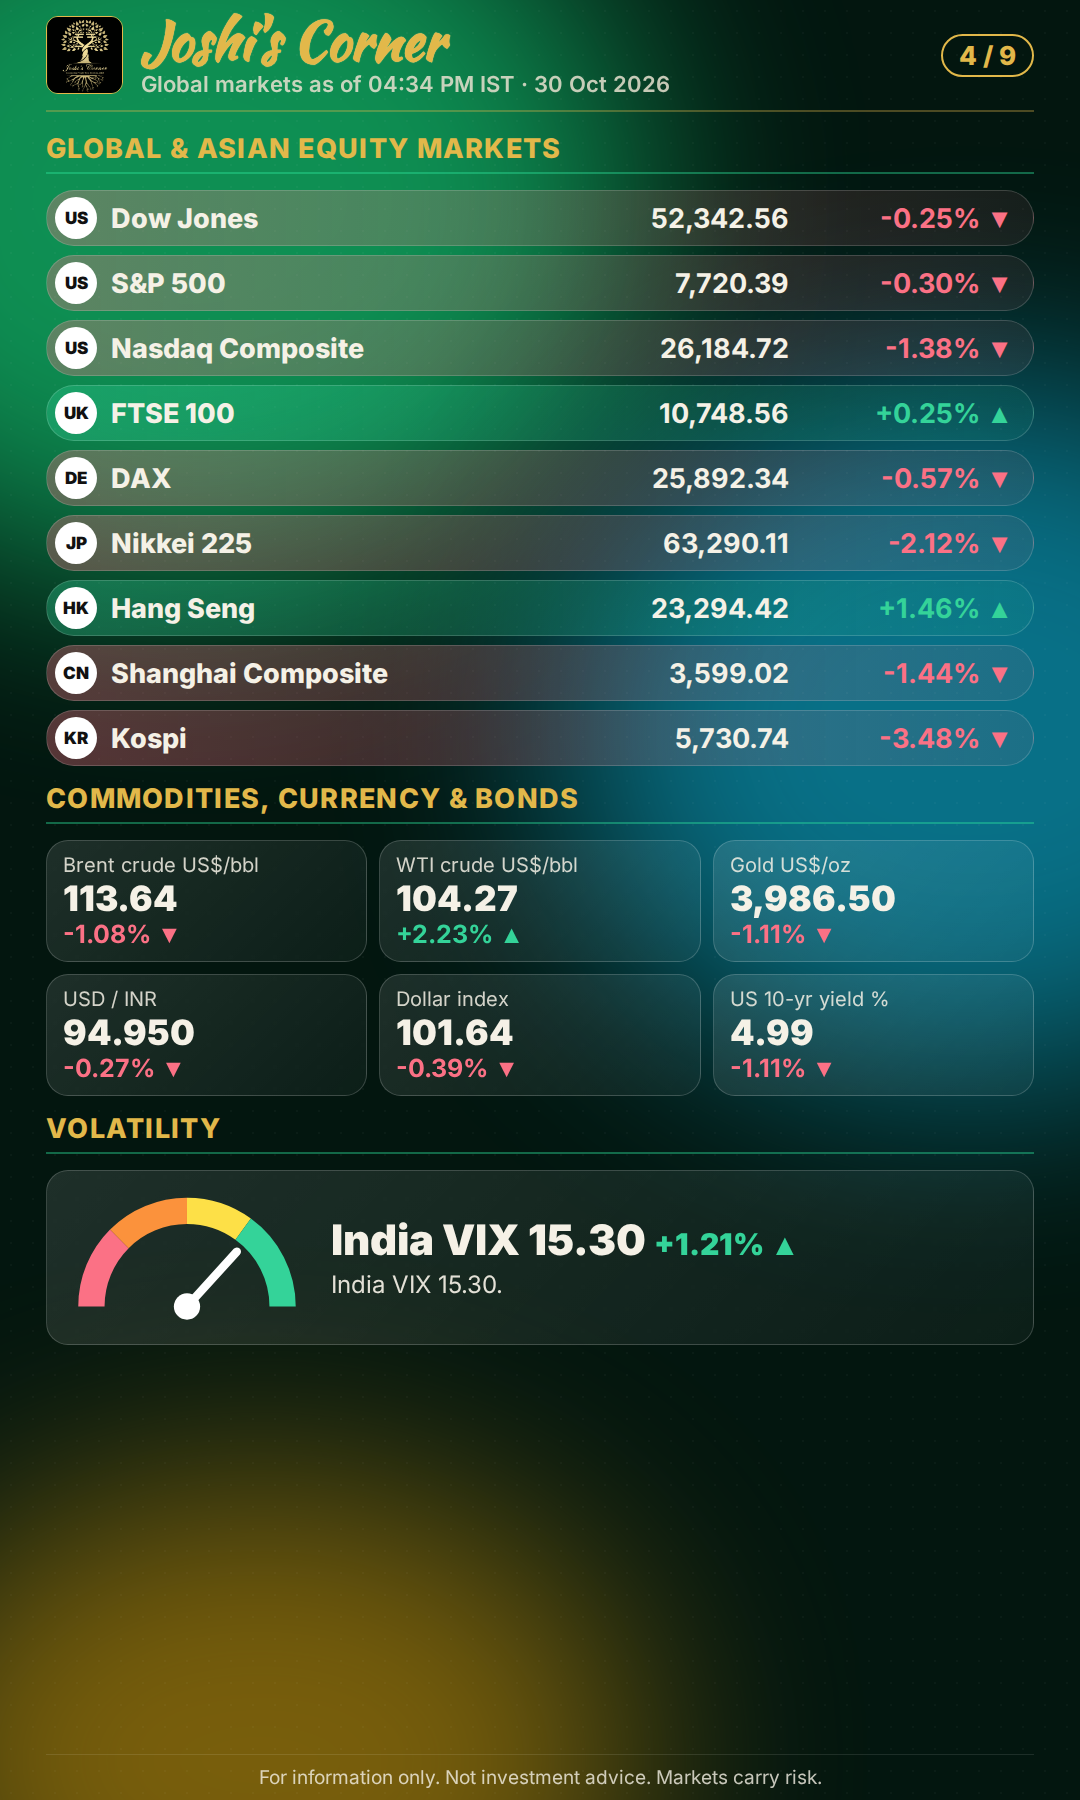
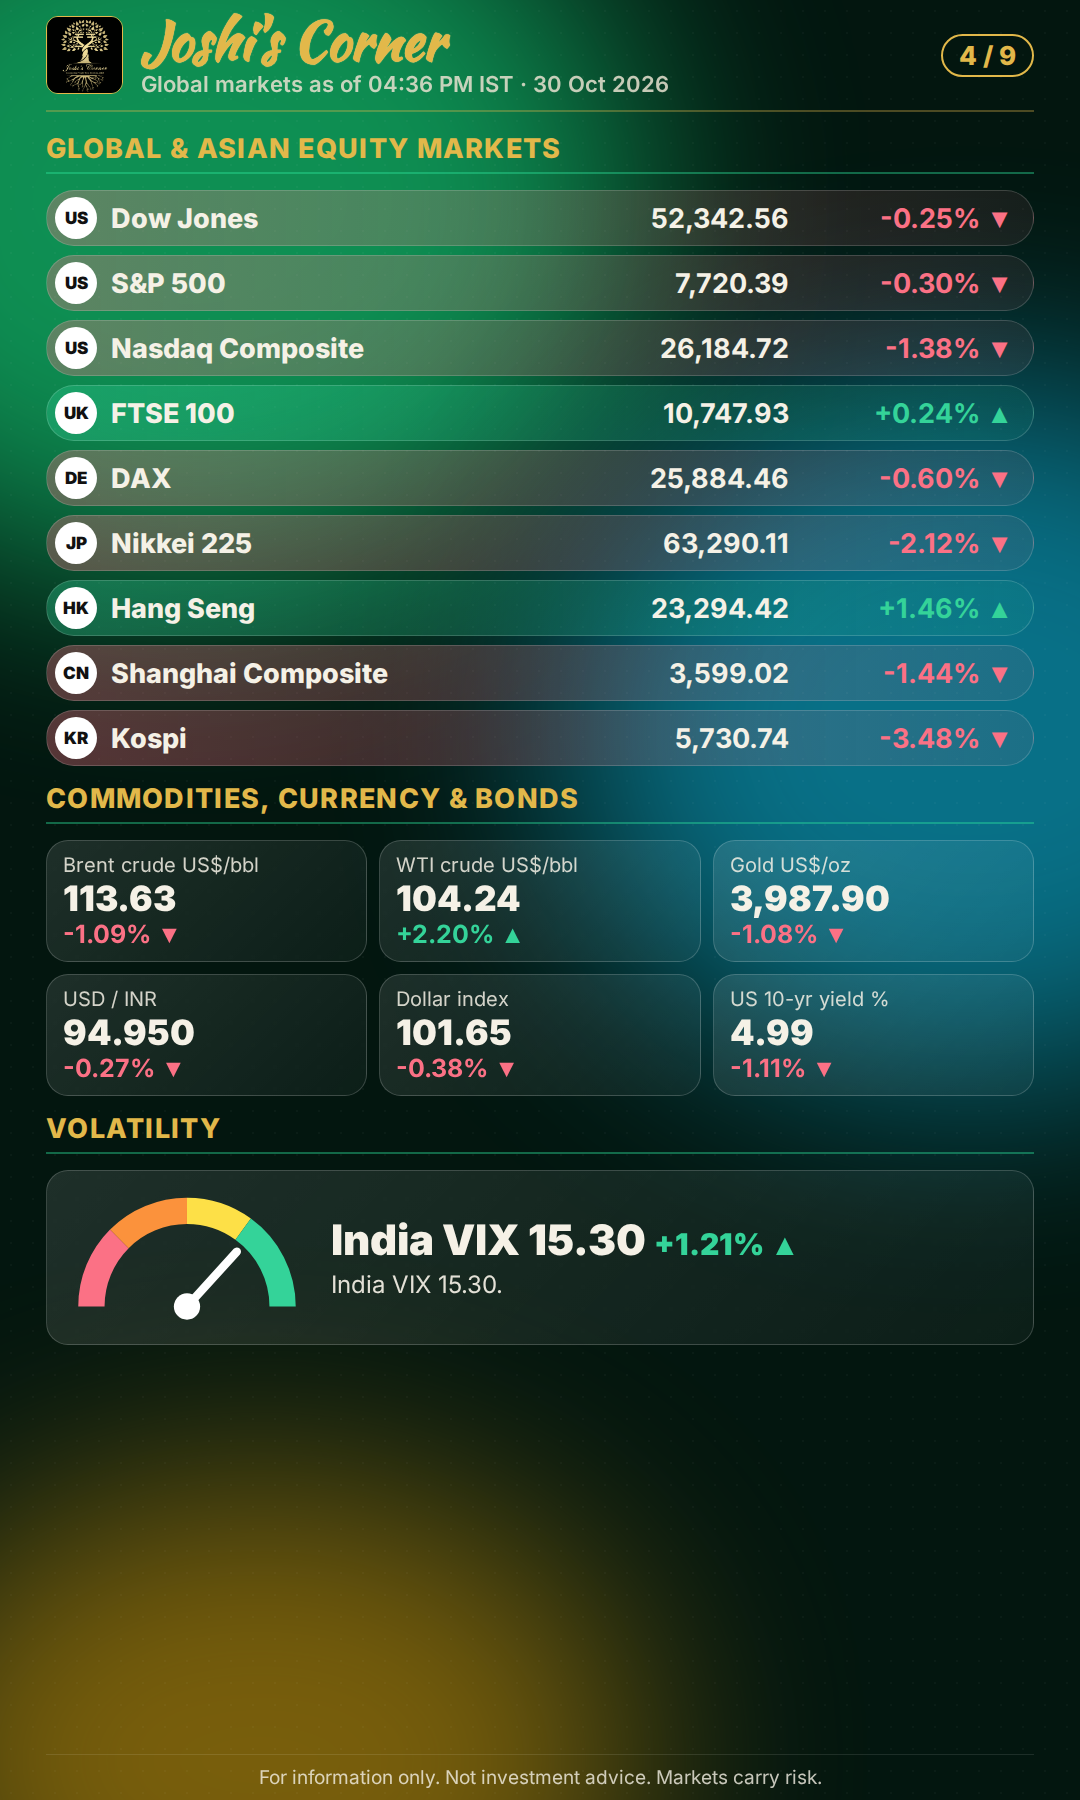
report: evening-breeze 2026-10-30 (ok)

diff --git a/evening/2026-10-30/index.html b/evening/2026-10-30/index.html
@@ -38,7 +38,7 @@ html,body{height:100%;background:radial-gradient(120% 90% at 50% 0%,#2a2140 0%,#
 <div class="top"><span class="b">Joshi's Corner</span></div>
 <div class="stage"><div class="book" id="book"><div class="spine"></div><div class="leaf"><img src="../../reports/evening-breeze/JCGG_Evening_Breeze_Mobile_2026-10-30_1.png" alt="Page 1" loading="eager"><div class="back"></div><div class="shade"></div></div><div class="leaf"><img src="../../reports/evening-breeze/JCGG_Evening_Breeze_Mobile_2026-10-30_2.png" alt="Page 2" loading="eager"><div class="back"></div><div class="shade"></div></div><div class="leaf"><img src="../../reports/evening-breeze/JCGG_Evening_Breeze_Mobile_2026-10-30_3.png" alt="Page 3" loading="eager"><div class="back"></div><div class="shade"></div></div><div class="leaf"><img src="../../reports/evening-breeze/JCGG_Evening_Breeze_Mobile_2026-10-30_4.png" alt="Page 4" loading="eager"><div class="back"></div><div class="shade"></div></div><div class="leaf"><img src="../../reports/evening-breeze/JCGG_Evening_Breeze_Mobile_2026-10-30_5.png" alt="Page 5" loading="eager"><div class="back"></div><div class="shade"></div></div><div class="leaf"><img src="../../reports/evening-breeze/JCGG_Evening_Breeze_Mobile_2026-10-30_6.png" alt="Page 6" loading="eager"><div class="back"></div><div class="shade"></div></div><div class="leaf"><img src="../../reports/evening-breeze/JCGG_Evening_Breeze_Mobile_2026-10-30_7.png" alt="Page 7" loading="eager"><div class="back"></div><div class="shade"></div></div><div class="leaf"><img src="../../reports/evening-breeze/JCGG_Evening_Breeze_Mobile_2026-10-30_8.png" alt="Page 8" loading="eager"><div class="back"></div><div class="shade"></div></div><div class="leaf"><img src="../../reports/evening-breeze/JCGG_Evening_Breeze_Mobile_2026-10-30_9.png" alt="Page 9" loading="eager"><div class="back"></div><div class="shade"></div></div></div></div>
 <div class="hint" id="hint">Tap the page to turn it</div>
-<div class="stat"><div class="old" id="old"></div><span id="gen">Report generated <b>Fri 30 Oct 2026, 04:34 PM IST</b></span></div>
+<div class="stat"><div class="old" id="old"></div><span id="gen">Report generated <b>Fri 30 Oct 2026, 04:36 PM IST</b></span></div>
 <div class="bar"><button class="g" id="prev" aria-label="Previous page">&#8249;</button><div class="dots" id="dots"></div><button id="next" aria-label="Next page">Next page &#8250;</button><button class="g" id="share">Share</button></div>
 <script>
 (function(){var L=[].slice.call(document.querySelectorAll('.leaf')),n=L.length,i=0,D=document.getElementById('dots');
@@ -53,7 +53,7 @@ document.addEventListener('keydown',function(e){if(e.key==='ArrowRight'||e.key==
 var sx=null;document.addEventListener('touchstart',function(e){sx=e.touches[0].clientX},{passive:true});
 document.addEventListener('touchend',function(e){if(sx===null)return;var dx=e.changedTouches[0].clientX-sx;if(Math.abs(dx)>45)go(dx<0?1:-1);sx=null},{passive:true});
 document.getElementById('share').onclick=function(){var d={title:"Joshi's Corner - Evening Breeze for Friday, 30 October 2026",text:"Joshi's Corner - Evening Breeze for Friday, 30 October 2026",url:location.href};if(navigator.share){navigator.share(d).catch(function(){})}else if(navigator.clipboard){navigator.clipboard.writeText(location.href);this.textContent='Link copied'}};
-(function(){var RD='2026-10-30',KIND='evening',ADM='',GEN='Fri 30 Oct 2026, 04:34 PM IST';
+(function(){var RD='2026-10-30',KIND='evening',ADM='',GEN='Fri 30 Oct 2026, 04:36 PM IST';
  var n=new Date(Date.now()+19800000),mm=n.getUTCHours()*60+n.getUTCMinutes(),dow=n.getUTCDay(),due=KIND==='evening'?16*60+40:8*60+55;
  function iso(d){return d.toISOString().slice(0,10)}
  var e=new Date(n.getTime());if(dow>=1&&dow<=5&&mm>=due){}else{do{e=new Date(e.getTime()-86400000)}while(e.getUTCDay()===0||e.getUTCDay()===6)}

diff --git a/evening/index.html b/evening/index.html
@@ -38,7 +38,7 @@ html,body{height:100%;background:radial-gradient(120% 90% at 50% 0%,#2a2140 0%,#
 <div class="top"><span class="b">Joshi's Corner</span></div>
 <div class="stage"><div class="book" id="book"><div class="spine"></div><div class="leaf"><img src="../reports/evening-breeze/JCGG_Evening_Breeze_Mobile_2026-10-30_1.png" alt="Page 1" loading="eager"><div class="back"></div><div class="shade"></div></div><div class="leaf"><img src="../reports/evening-breeze/JCGG_Evening_Breeze_Mobile_2026-10-30_2.png" alt="Page 2" loading="eager"><div class="back"></div><div class="shade"></div></div><div class="leaf"><img src="../reports/evening-breeze/JCGG_Evening_Breeze_Mobile_2026-10-30_3.png" alt="Page 3" loading="eager"><div class="back"></div><div class="shade"></div></div><div class="leaf"><img src="../reports/evening-breeze/JCGG_Evening_Breeze_Mobile_2026-10-30_4.png" alt="Page 4" loading="eager"><div class="back"></div><div class="shade"></div></div><div class="leaf"><img src="../reports/evening-breeze/JCGG_Evening_Breeze_Mobile_2026-10-30_5.png" alt="Page 5" loading="eager"><div class="back"></div><div class="shade"></div></div><div class="leaf"><img src="../reports/evening-breeze/JCGG_Evening_Breeze_Mobile_2026-10-30_6.png" alt="Page 6" loading="eager"><div class="back"></div><div class="shade"></div></div><div class="leaf"><img src="../reports/evening-breeze/JCGG_Evening_Breeze_Mobile_2026-10-30_7.png" alt="Page 7" loading="eager"><div class="back"></div><div class="shade"></div></div><div class="leaf"><img src="../reports/evening-breeze/JCGG_Evening_Breeze_Mobile_2026-10-30_8.png" alt="Page 8" loading="eager"><div class="back"></div><div class="shade"></div></div><div class="leaf"><img src="../reports/evening-breeze/JCGG_Evening_Breeze_Mobile_2026-10-30_9.png" alt="Page 9" loading="eager"><div class="back"></div><div class="shade"></div></div></div></div>
 <div class="hint" id="hint">Tap the page to turn it</div>
-<div class="stat"><div class="old" id="old"></div><span id="gen">Report generated <b>Fri 30 Oct 2026, 04:34 PM IST</b></span></div>
+<div class="stat"><div class="old" id="old"></div><span id="gen">Report generated <b>Fri 30 Oct 2026, 04:36 PM IST</b></span></div>
 <div class="bar"><button class="g" id="prev" aria-label="Previous page">&#8249;</button><div class="dots" id="dots"></div><button id="next" aria-label="Next page">Next page &#8250;</button><button class="g" id="share">Share</button></div>
 <script>
 (function(){var L=[].slice.call(document.querySelectorAll('.leaf')),n=L.length,i=0,D=document.getElementById('dots');
@@ -53,7 +53,7 @@ document.addEventListener('keydown',function(e){if(e.key==='ArrowRight'||e.key==
 var sx=null;document.addEventListener('touchstart',function(e){sx=e.touches[0].clientX},{passive:true});
 document.addEventListener('touchend',function(e){if(sx===null)return;var dx=e.changedTouches[0].clientX-sx;if(Math.abs(dx)>45)go(dx<0?1:-1);sx=null},{passive:true});
 document.getElementById('share').onclick=function(){var d={title:"Joshi's Corner - Evening Breeze for Friday, 30 October 2026",text:"Joshi's Corner - Evening Breeze for Friday, 30 October 2026",url:location.href};if(navigator.share){navigator.share(d).catch(function(){})}else if(navigator.clipboard){navigator.clipboard.writeText(location.href);this.textContent='Link copied'}};
-(function(){var RD='2026-10-30',KIND='evening',ADM='',GEN='Fri 30 Oct 2026, 04:34 PM IST';
+(function(){var RD='2026-10-30',KIND='evening',ADM='',GEN='Fri 30 Oct 2026, 04:36 PM IST';
  var n=new Date(Date.now()+19800000),mm=n.getUTCHours()*60+n.getUTCMinutes(),dow=n.getUTCDay(),due=KIND==='evening'?16*60+40:8*60+55;
  function iso(d){return d.toISOString().slice(0,10)}
  var e=new Date(n.getTime());if(dow>=1&&dow<=5&&mm>=due){}else{do{e=new Date(e.getTime()-86400000)}while(e.getUTCDay()===0||e.getUTCDay()===6)}
